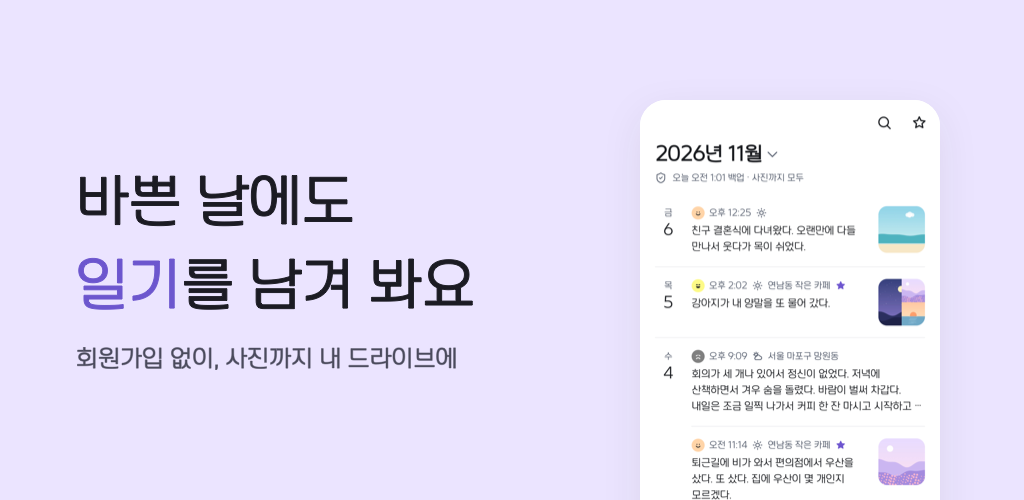
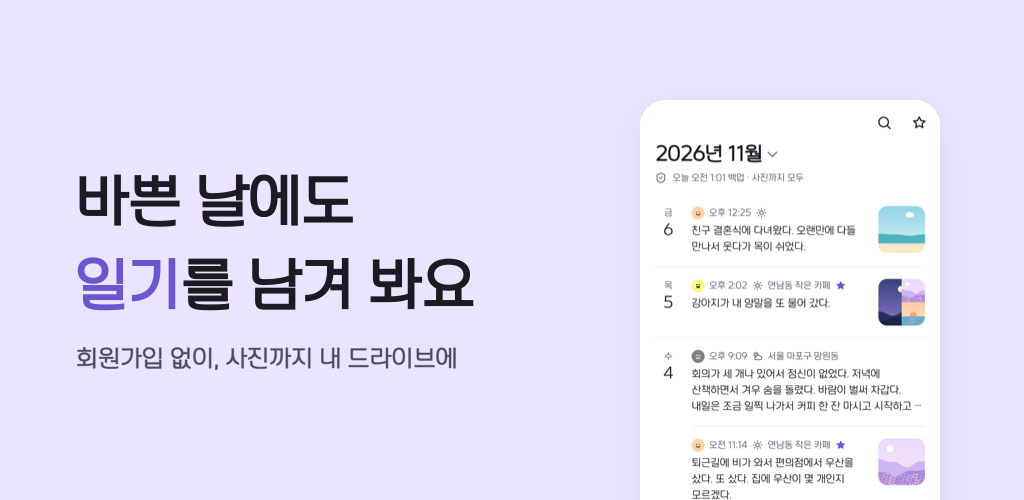
docs(release): 스토어 이미지 머리말을 더 굵게 만들기
창원단감둥근체는 굵기가 하나뿐이라 머리말이 가늘어 보였다.
윤곽선을 두 배쯤 두껍게 둘러 제목이 잘 읽히게 했다.

diff --git a/scripts/store/make_screens.swift b/scripts/store/make_screens.swift
@@ -41,11 +41,11 @@ func text(_ string: String, _ size: CGFloat, _ tint: NSColor, _ rect: NSRect, _ 
     style.alignment = align
     style.lineHeightMultiple = 1.16
     // 앱 화면과 같은 글꼴을 쓴다.
-    // 이 글꼴은 굵기가 하나뿐이라 윤곽선을 살짝 둘러 제목 무게를 낸다.
+    // 이 글꼴은 굵기가 하나뿐이라 윤곽선을 둘러 제목 무게를 낸다.
     let font = NSFont(name: "ChangwonDangamRound-Regular", size: size) ?? NSFont.boldSystemFont(ofSize: size)
     let label = NSMutableAttributedString(
         string: string,
-        attributes: [.font: font, .foregroundColor: tint, .strokeColor: tint, .strokeWidth: -1.6, .paragraphStyle: style]
+        attributes: [.font: font, .foregroundColor: tint, .strokeColor: tint, .strokeWidth: size < 40 ? -1.6 : -3.4, .paragraphStyle: style]
     )
     if let accented, let range = string.range(of: accented) {
         let span = NSRange(range, in: string)
